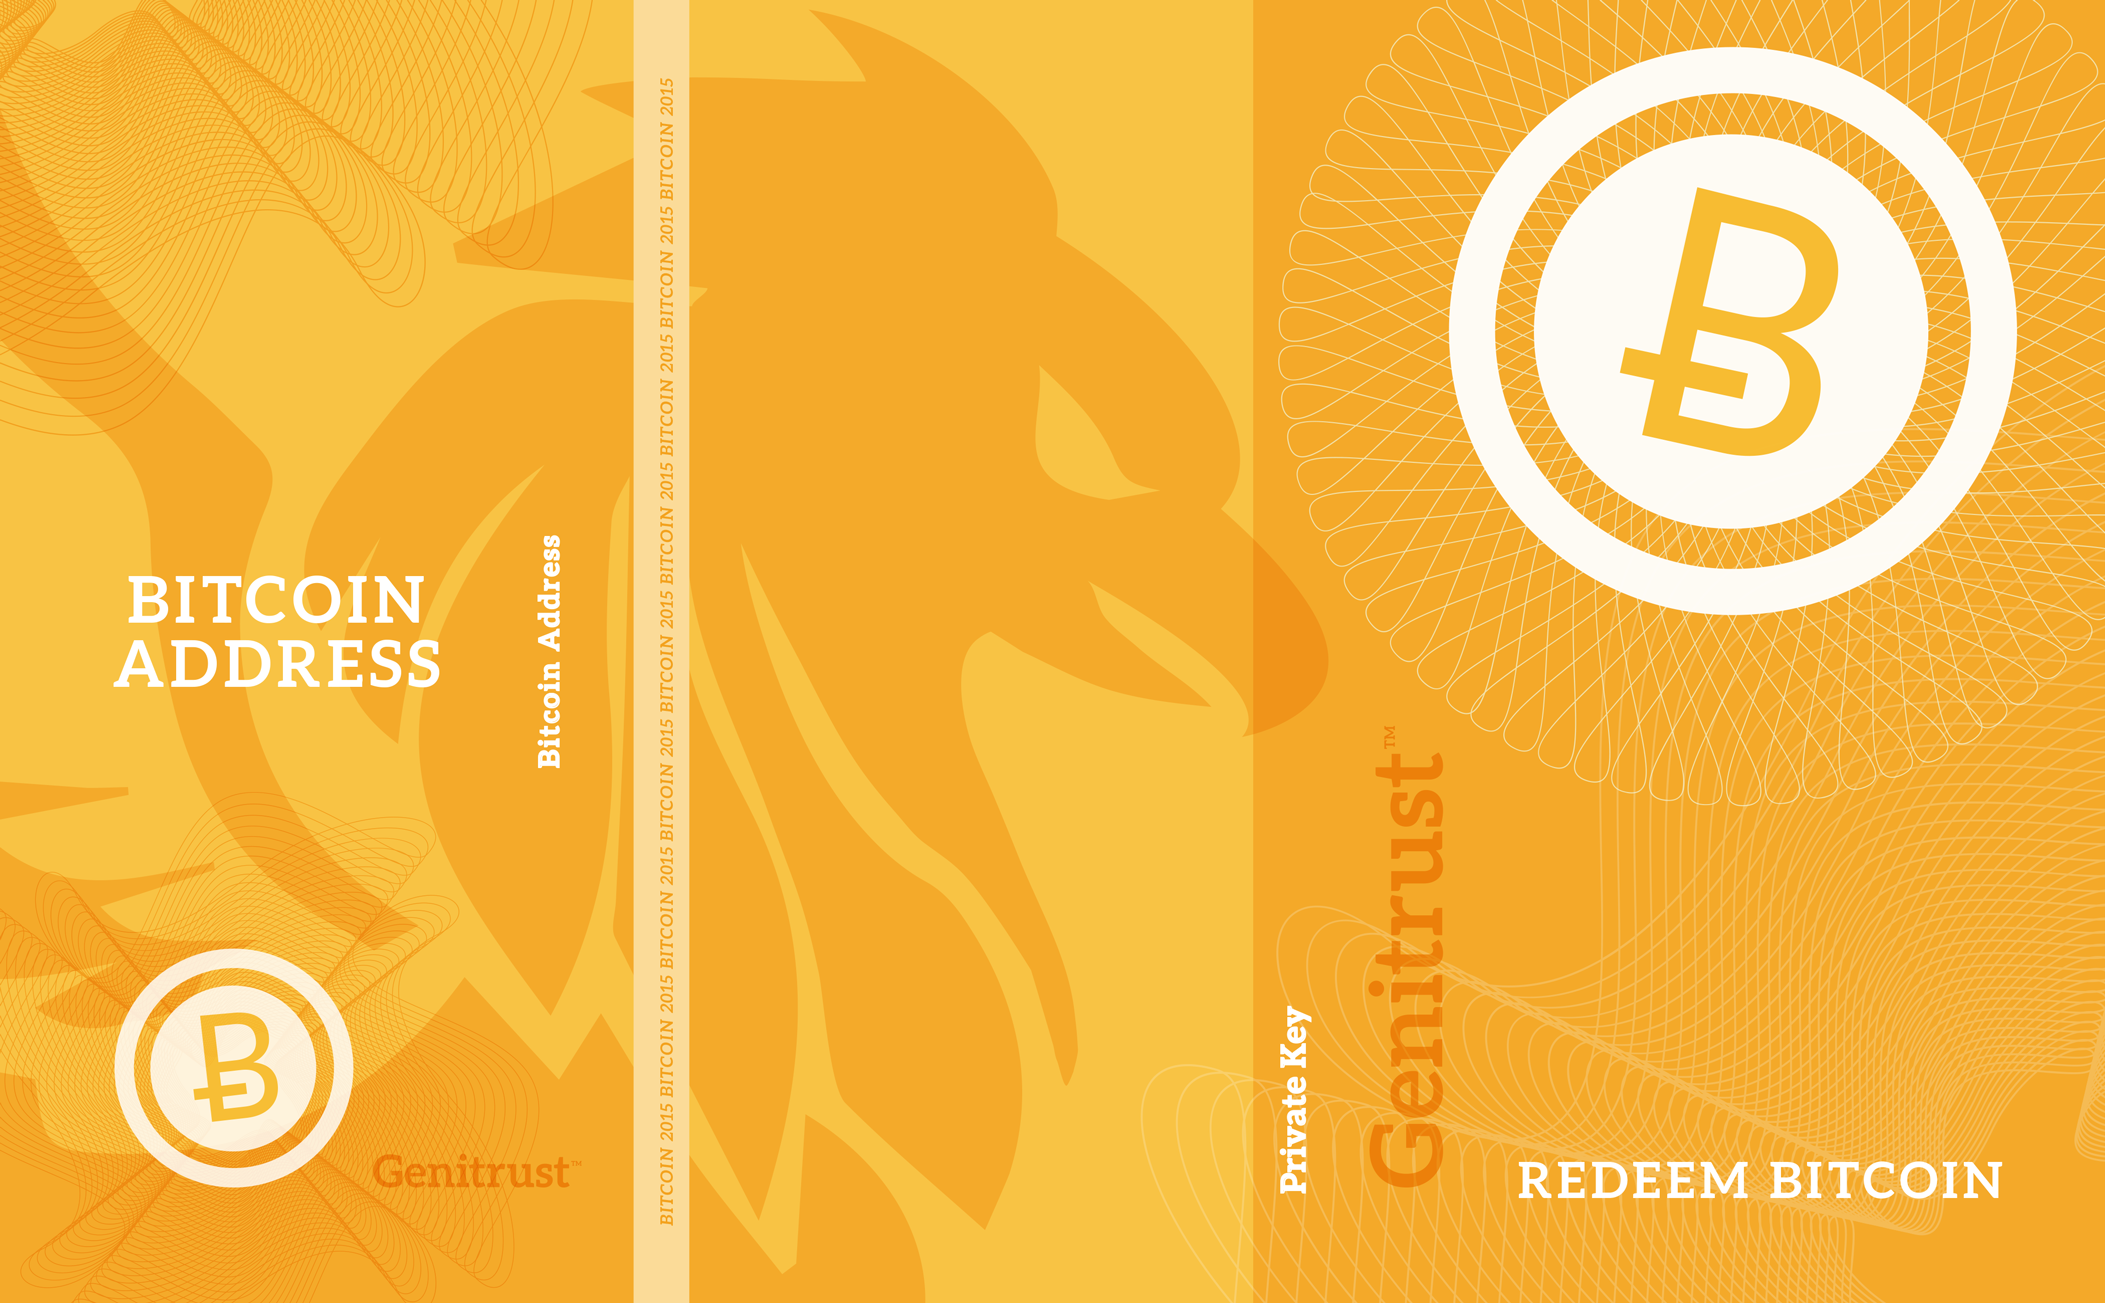
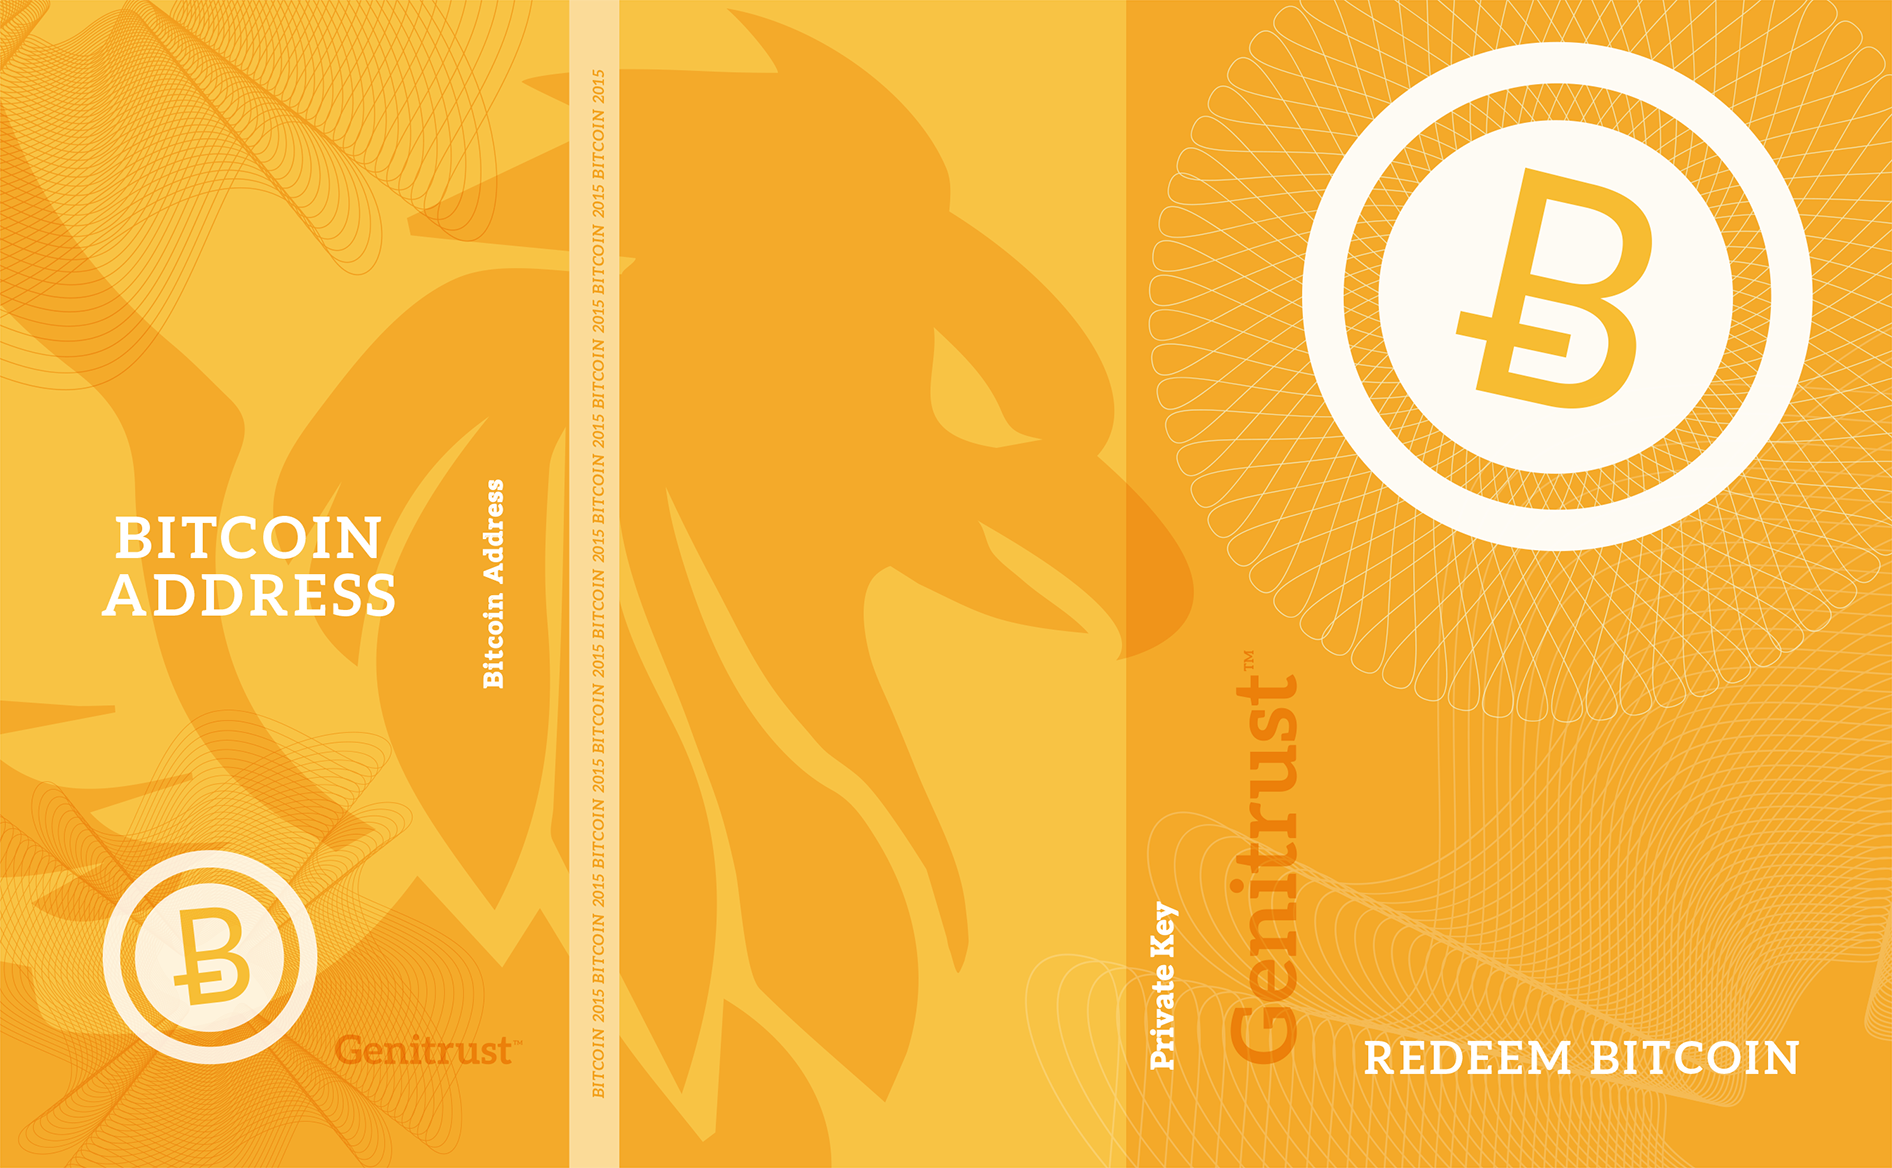
added new note and fixed dimensions / positions of labels

diff --git a/index.html b/index.html
@@ -6351,15 +6351,19 @@ body, html { height: 99%; }
 #paperarea .keyarea.art { display: block; height: auto; border: 0; font-family: Ubuntu, Arial; padding: 0; margin: 0; }
 
 /* Genitrust Note */
-#paperarea .artwallet .papersvg { width: 481px; height: 297px; border: 0; margin: 0; padding: 0; left: 0; }
+/*#paperarea .artwallet .papersvg { width: 481px; height: 297px; border: 0; margin: 0; padding: 0; left: 0; }
+*/
+
+#paperarea .artwallet .papersvg { width: 473px; height: 292px; border: 0; margin: 0; padding: 0; left: 0; }
+
 #paperarea .artwallet .qrcode_public { top: 29px; left: 17px; z-index: 100; margin: 0; float: none; display: block; position: absolute; background-color: #FFFFFF;
 		                                padding: 5px 5px 2px 5px; }
-#paperarea .artwallet .qrcode_private { top: 149px; left: 346px; z-index: 100; margin: 0; float: none; display: block; position: absolute; background-color: #FFFFFF;
+#paperarea .artwallet .qrcode_private { top: 142px; left: 339px; z-index: 100; margin: 0; float: none; display: block; position: absolute; background-color: #FFFFFF;
 		                                padding: 5px 5px 2px 5px; }
 #paperarea .artwallet .btcaddress
 {
     color: #00205B;
-	position: absolute; top: 240px; left: 130px; z-index: 100; font-size: 10px; background-color: transparent;
+	position: absolute; top: 240px; left: 129px; z-index: 100; font-size: 10px; background-color: transparent;
 	font-weight:bold; margin: 0;
 		-webkit-transform-origin:top left; -webkit-transform:rotate(-90deg);
 		-moz-transform-origin:top left;    -moz-transform:rotate(-90deg);
@@ -6370,7 +6374,7 @@ body, html { height: 99%; }
 #paperarea .artwallet .btcprivwif
 {
     color: #00205B;
-	position: absolute; top: 275px; left: 301px; z-index: 100; font-size: 8px; background-color: transparent;
+	position: absolute; top: 275px; left: 296px; z-index: 100; font-size: 8px; background-color: transparent;
 	/* original Genitrust: position: absolute; top: 225px; left: 291px; z-index: 100; font-size: 8px; background-color: transparent; */
 	/*position: absolute; top: 236px; left: 346px; z-index: 100; font-size: 7px; background-color: transparent;*/
 	font-weight:bold; margin: 0;
